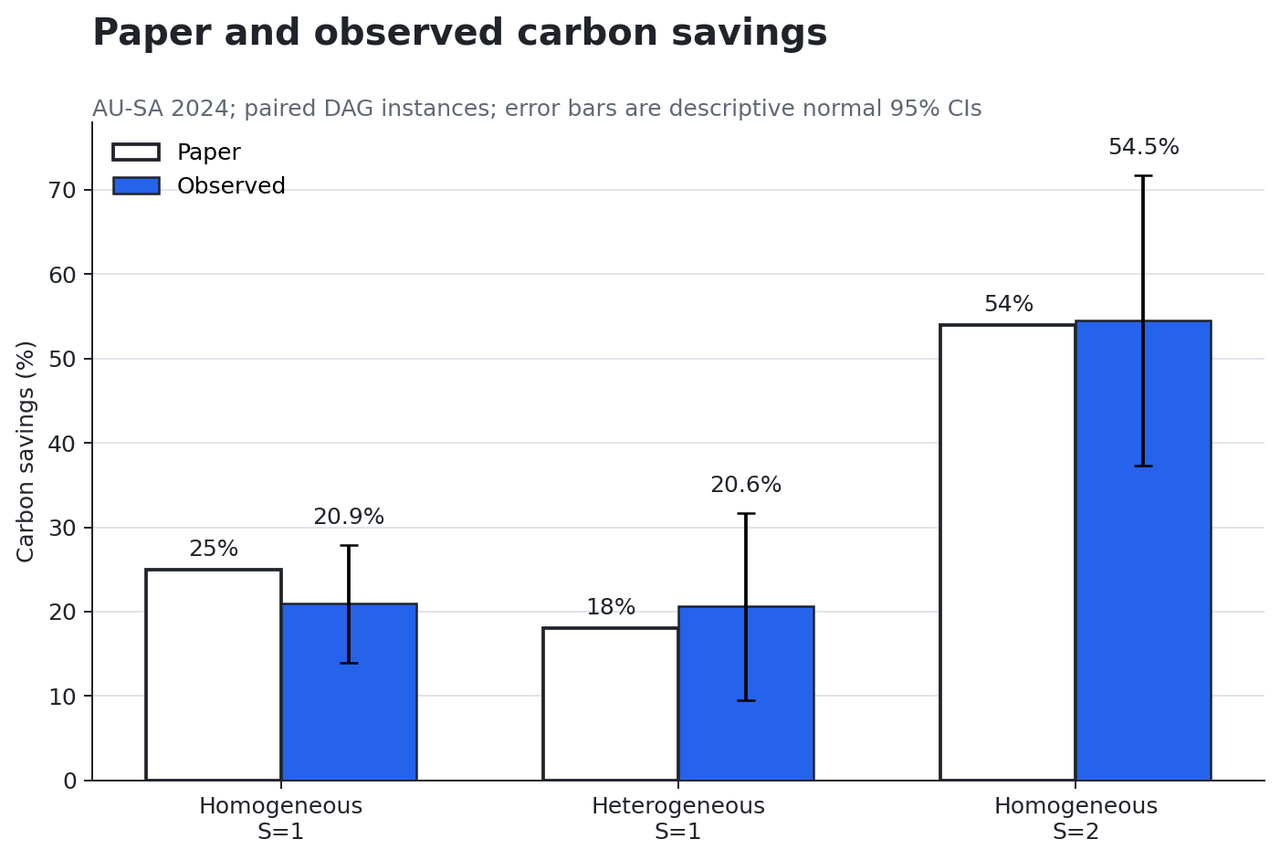
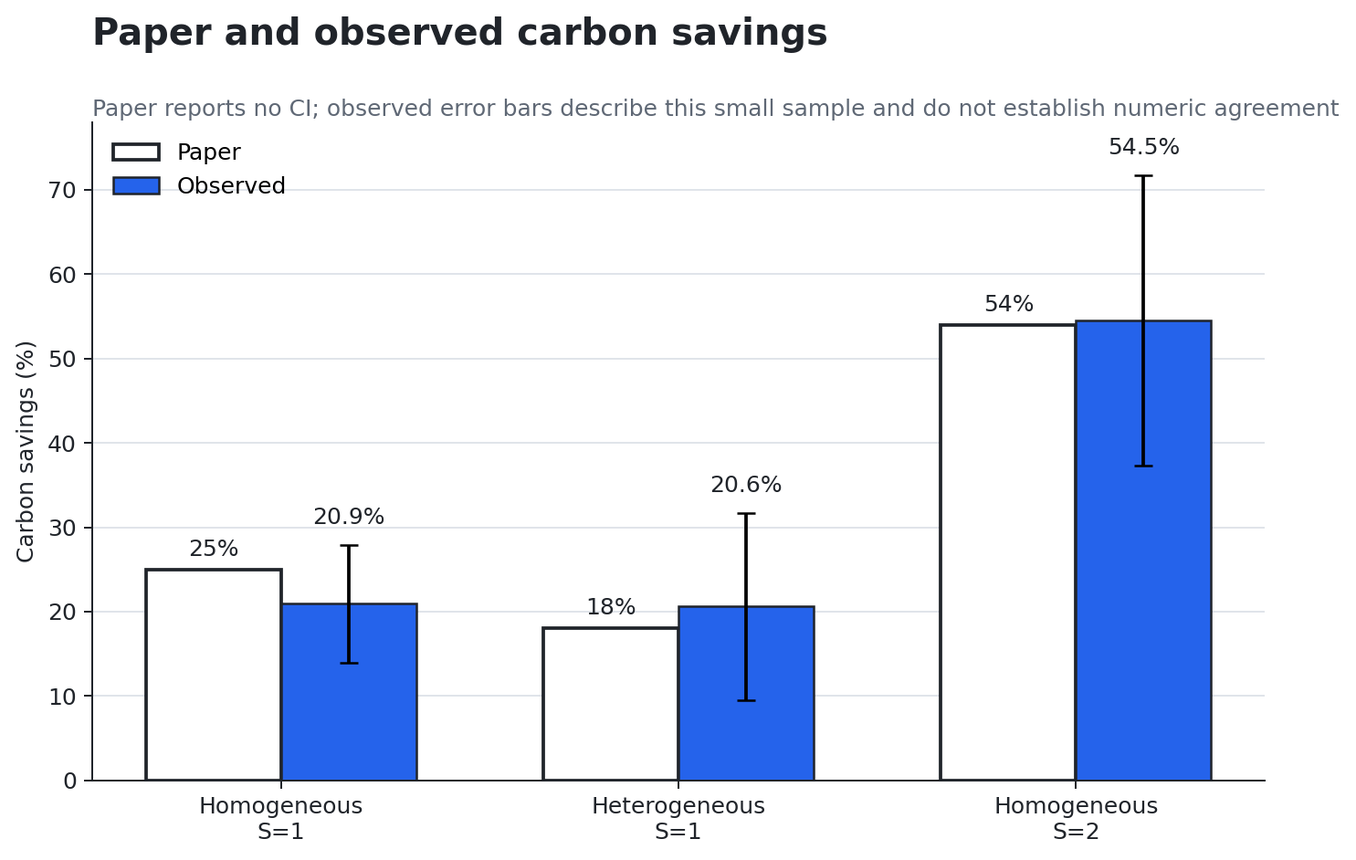
Apply unified reproduction grading rubric

diff --git a/notebooks/dag_carbon_reproduction.py b/notebooks/dag_carbon_reproduction.py
@@ -80,21 +80,21 @@ def _(mo):
             "Paper (%)": 25.0,
             "Observed (%)": 20.93,
             "n": 24,
-            "Assessment": "Aligned",
+            "Assessment": "Direction supported; numeric gap 16.3%",
         },
         {
             "Claim": "Heterogeneous S=1",
             "Paper (%)": 18.0,
             "Observed (%)": 20.60,
             "n": 16,
-            "Assessment": "Aligned",
+            "Assessment": "Direction supported; numeric gap 14.4%",
         },
         {
             "Claim": "Homogeneous S=2",
             "Paper (%)": 54.0,
             "Observed (%)": 54.52,
             "n": 8,
-            "Assessment": "Aligned under proportional timeouts",
+            "Assessment": "Supported; numeric gap 1.0%",
         },
     ]
     mo.ui.table(summary, selection=None, label="Paper and observed results")
@@ -210,10 +210,13 @@ def _(mo):
     mo.md(r"""
     ## What this evidence does—and does not—establish
 
-    **Supported here:** carbon-aware reordering can cut operational emissions
-    without extending the optimal makespan; proportional search time recovers
-    the reported $S=2$ endpoint; higher utilization is descriptively
-    associated with lower savings.
+    **Overall grade: C — partial reproduction success (medium confidence).**
+    Carbon-aware reordering reduced operational emissions without extending
+    the optimal makespan, and proportional search time recovered the reported
+    homogeneous $S=2$ endpoint. However, the two $S=1$ means differ from the
+    paper by 16.3% and 14.4%, beyond the 10% reference used when the paper gives
+    no uncertainty interval. The heterogeneous $S=2$ endpoint and several core
+    ablations were not supported or not attempted.
 
     **Still open:** the paper's energy-vs-carbon objective comparison, server
     count and task count sweeps, regional carbon traces, and a full 1,000-case

diff --git a/reports/dag-carbon-reproduction/build_report_assets.py b/reports/dag-carbon-reproduction/build_report_assets.py
@@ -135,7 +135,7 @@ def main() -> None:
     ax.set_xticks(x, labels)
     ax.set_ylim(0, 78)
     chart_title(ax, "Paper and observed carbon savings",
-                "AU-SA 2024; paired DAG instances; error bars are descriptive normal 95% CIs")
+                "Paper reports no CI; observed error bars describe this small sample and do not establish numeric agreement")
     style(ax)
     ax.legend(frameon=False, loc="upper left")
     save(fig, "headline_result.png")

diff --git a/reports/dag-carbon-reproduction/report.md b/reports/dag-carbon-reproduction/report.md
@@ -1,108 +1,100 @@
-# Reproducing Carbon-Aware Scheduling for DAG Workloads
+# DAG 工作负载碳感知调度：统一标准复现审计
 
-![Paper and observed carbon savings](images/headline_result.png)
+![论文值与本次实测值](images/headline_result.png)
 
-## The central question and answer
+**最终等级：C（部分复现成功）｜结论可信度：中。** 本次代码确实在约定的 SSH 机器上完成了实例级求解，并支持“碳感知调度能在不延长最优 makespan 时降低碳排放”这一方向性结论；但两个 $S=1$ 核心均值与论文的相对差异都超过 10%，异构 $S=2$ 结果相差 51.1%，且能耗权衡、服务器数、任务数和地区消融均未复现。因此不能判为 A 或 B。
 
-Can a scheduler reduce a dependency-constrained batch workload's operational carbon emissions without delaying its completion? In our downscaled reproduction of Bostandoost et al. ([arXiv:2512.07799](https://www.alphaxiv.org/abs/2512.07799)), the answer was yes.
+## 1. 本次实际复现了什么？
 
-At the paper's no-slack setting, $S=1$, carbon-aware schedules reduced emissions by **20.93% on homogeneous servers** versus the paper's 25%, and by **20.60% on heterogeneous servers** versus 18%. With proportional solver budgets and $S=2$, homogeneous savings reached **54.52%**, almost exactly the paper's 54%. These are aligned results under a smaller sample and shorter search budget, not a full-scale reproduction.
+我们重新实现了论文的两层 OR-Tools CP-SAT 优化：先最小化 makespan 得到 $C_{OPT}$，再约束 `makespan <= ceil(S × C_OPT)` 并最小化逐时段碳排放。正式运行使用作者仓库固定提交 [`cc312ef`](https://github.com/rbostandoust/GreenSys26-DAG/commit/cc312ef7d238d56d7114053dcdd04685b8a6a4d7) 中的 AU-SA 2024 Electricity Maps 数据和四操作 DAG 池。
 
-The most important qualification is computational: simply enlarging the feasible scheduling window without giving CP-SAT more search time produced poor or missing solutions. The paper's 1×/3×/5× timeout policy is consequential to the headline stretch result.
+实际完成的实验为：
 
-## Claim-by-claim assessment
+- 同构服务器、$S=1$：24 个实例。
+- 同构与异构服务器、$S=1,1.5,2$：各 16 个实例，所有碳优化求解统一限时 10 秒。
+- 同构服务器、$S=1,1.5,2$：8 个实例，碳优化限时按 10/30/50 秒递增。
 
-| Empirical claim | Paper result | Observed result | Assessment | Formal compute |
-|---|---:|---:|---|---|
-| Carbon savings with no makespan loss, homogeneous $S=1$ | 25.0% | 20.93%, $n=24$, descriptive 95% CI ±6.98 pp | **Aligned**; 4.07 pp lower, with the paper value inside the descriptive interval | 4m27s |
-| Carbon savings with no makespan loss, heterogeneous $S=1$ | 18.0% | 20.60%, $n=16$, descriptive 95% CI ±11.10 pp | **Aligned**; 2.60 pp higher | 16m41s sweep, which also tested stretch |
-| Homogeneous savings at $S=2$ | 54.0% | 54.52%, $n=8$, descriptive 95% CI ±17.24 pp | **Aligned under proportional timeouts**; 0.52 pp higher | 12m26s |
-| Doubling makespan flexibility nearly doubles homogeneous savings | 25% → 54% (2.16×) | 31.16% → 54.52% (1.75×) on the same $n=8$ subset | **Partially aligned**; direction and endpoint align, relative gain is smaller | 12m26s |
-| Default homogeneous utilization | 47.15% | 47.45%, $n=24$ | **Aligned**; 0.30 pp higher | Included in 4m27s baseline |
-| Heterogeneous carbon–energy trade-off (Fig. 7) | Up to 7% energy gap; at $S=2$, ~50% vs ~30% carbon savings and ~3% vs ~10% energy savings | Not attempted | **Not attempted** | — |
-| More servers yield up to 30× higher savings (Table 1a) | 1.13% → 33.98% for $M=2→10$ | Not attempted | **Not attempted** | — |
-| More tasks reduce savings by up to 35% (Table 1b) | 30.43% → 19.69% for $k=3→5$ | Not attempted | **Not attempted** | — |
-| Carbon-trace region changes achievable savings (Fig. 6) | Qualitative regional differences | Not attempted | **Not attempted** | — |
+三次成功运行共用时 33 分 34 秒。所有报告数字都可从本次运行日志中的 `INSTANCE_RESULT`、`SUMMARY` 和 `FINAL_RESULT` 逐项追溯；CSV 是从这些日志重新解析生成的，并非复制论文或 README 数字。所有 makespan 基线均由求解器标记为 `OPTIMAL`；碳优化结果大多只达到 `FEASIBLE`，因此是限时条件下找到的解，不是已证明的碳最优上界。
 
-The three successful evidence runs used **33m34s total wall-clock time** on the user-provided Vast.ai SSH machine (`paper2607-rtx3090`). The workload was CPU-bound constraint programming; the RTX 3090 was not used for acceleration. A monetary cost cannot be recovered from the run evidence. One 9-minute partial sweep crashed after completing its homogeneous half; it is retained only because it led to the heterogeneous-horizon repair.
+## 2. 哪些内容没有复现？
 
-## The implementation follows the paper's two-level optimization
+- 图 7 的碳优化与能耗优化对比，以及“碳最优方案最多多用 7% 能源”。
+- 表 1a 的服务器数量消融及“最多提高 30 倍碳节省”。
+- 表 1b 的每作业任务数消融及“最多降低 35% 碳节省”。
+- 图 6 的 CAL、CA-ON、TEX 与 AU-SA 地区对比。
+- 每个条件 1,000 个实例、论文完整的 60/180/300 秒求解预算。
+- 多随机种子、论文未披露的确切随机种子、硬件、线程数、OR-Tools 版本和日期抽样编排。
 
-The implementation uses the authors' released AU-SA 2024 Electricity Maps trace and four-operation DAG pool, pinned to upstream commit [`cc312ef`](https://github.com/rbostandoust/GreenSys26-DAG/commit/cc312ef7d238d56d7114053dcdd04685b8a6a4d7). Each instance contains 10 jobs, four operations per job, five servers, arrivals within 24 hours, and 15-minute epochs.
+## 3–4. 每个核心结论是否得到支持，数值相差多少？
 
-The consequential path in [`reproduce.py`](../../reproduce.py) is:
+论文没有报告可用于均值比较的方差或置信区间。因此，按统一标准使用 **相对差异不超过 10%** 作为临时数值接近参考。本次小样本的置信区间只描述本次结果波动，不用于替代论文缺失的误差范围。
 
-1. Sample jobs, DAG parents, arrivals, and a start date deterministically.
-2. Build one optional interval per task–machine alternative.
-3. Enforce exactly-one machine assignment, DAG precedence, arrivals, and per-machine `NoOverlap`.
-4. Minimize makespan and record the optimal $C_{\mathrm{OPT}}$.
-5. Rebuild the same instance with `makespan <= ceil(S × C_OPT)` and minimize time-indexed carbon cost.
-6. Compare each carbon-aware result with its paired makespan-only schedule.
+| 核心结论 | 论文结果 | 本次实测 | 方向 | 相对差异 | 判定 |
+|---|---:|---:|---|---:|---|
+| 同构 $S=1$：不增加最优 makespan 仍可降低碳排 | 25.0% | 20.9341%，$n=24$ | 一致：节省为正 | **16.26%** | **部分支持**：方向一致，数值不满足 10% 参考 |
+| 异构 $S=1$：不增加最优 makespan 仍可降低碳排 | 18.0% | 20.5996%，$n=16$ | 一致：节省为正 | **14.44%** | **部分支持**：方向一致，数值不满足 10% 参考 |
+| $S=1$ 时同构节省高于异构 | 25% > 18%，差 7 pp | 同一 16 实例集合为 23.1309% > 20.5996%，差 2.5313 pp | 一致 | 差值幅度相差 **63.84%** | **部分支持**：排序一致，差距明显偏小 |
+| 同构 $S=2$ 平均节省约 54% | 54.0% | 54.5157%，$n=8$，10/30/50 秒 | 一致 | **0.96%** | **支持**：端点数值接近 |
+| 放宽 makespan 会提高同构碳节省 | 25% → 54% | 同一 8 实例集合为 31.1637% → 47.8975% → 54.5157% | 一致：均值单调上升 | — | **支持方向** |
+| 将 $S$ 从 1 提到 2 会使同构节省“接近翻倍” | 2.16× | 1.749× | 一致：增幅为正 | **19.01%** | **部分支持**：趋势一致，倍率不接近 |
+| 异构 $S=2$ 平均节省约 52% | 52.0% | 25.4405%，$n=16$，统一 10 秒 | 仅端点高于 $S=1$；$S=1.5→2$ 反向下降 | **51.08%** | **本设置下不支持／证据不足**：预算与论文不一致 |
+| 异构利用率高于同构，从而限制迁移空间 | 55.02% > 47.15% | 47.3398% ≈ 47.2822%（同一 16 实例） | 不一致 | 异构利用率相差 **13.96%** | **本设置下不支持**；提示模型或利用率口径仍有差异 |
+| 默认同构利用率约 47.15% | 47.15% | 47.4501%，$n=24$ | 一致 | **0.64%** | **支持** |
+| 碳—能耗权衡、服务器数、任务数、地区效应 | 论文图 6–7、表 1 | 未运行 | 未判断 | — | **未复现** |
 
-The carbon objective uses a precomputed start-time lookup rather than the release's per-epoch active Boolean variables:
+“统一 10 秒”同构扫参只有 11/16 个 $S=2$ 求解返回可行结果，均值从 23.13% 降到 7.54%，不能支持论文趋势。把预算改为与论文相同的 1×/3×/5×比例后，8 个实例全部返回可行解并恢复单调趋势。这说明求解预算是实验条件的一部分；后者只能支持同构趋势，不能补足异构 $S=2$ 或其他未运行结论。
 
-```python
-model.add_element(safe_start, costs, raw_cost)
-model.add(active_cost == raw_cost).only_enforce_if(present)
-model.add(makespan <= makespan_limit)
-model.minimize(sum(task_costs))
-```
+![不同求解预算下的伸缩趋势](images/timeout_sensitivity.png)
 
-This is an equivalent discrete objective but produces a smaller CP-SAT model. The heterogeneous powers $[0.25, 0.5, 1, 1.5, 2]$ kW are a constant rescaling of the release's normalized $[1,2,4,6,8]$, so assignments and percentage savings are invariant to that factor.
+## 5. 差异可能来自哪里？
 
-## Savings exist at the same optimal makespan, but vary widely
+| 条件 | 论文 | 本次复现 | 可能影响 |
+|---|---|---|---|
+| 数据 | AU-SA 2024；作者 DAG 生成数据 | 相同来源并固定上游提交 | 这一部分基本一致 |
+| 每实例规模 | $n=10$ 作业、$k=4$ 任务、$M=5$ 服务器 | 相同 | 基本一致 |
+| 样本数 | 每条件 1,000 | 24、16 或 8 | 均值方差很大，容易受少数日期和 DAG 影响 |
+| 随机性 | 随机 trace 起点；种子数与种子未披露 | 一个生成种子 42；日期另用确定性派生种子 | 样本集合不同，不能视为同一统计重复 |
+| 碳求解时限 | $S=1/1.5/2$ 分别 60/180/300 秒 | 10 秒统一扫参；聚焦实验为 10/30/50 秒 | 大搜索空间中解质量和可行解覆盖率会下降 |
+| 硬件/线程 | 论文未披露 | Vast.ai SSH 主机；OR-Tools 8 个 search workers；GPU 未使用 | 多线程 CP-SAT 非完全确定；CPU 性能影响限时解质量 |
+| 软件版本 | 论文仅说明 Google OR-Tools，未给版本 | OR-Tools 9.14.6206 | 求解启发式和限时结果可能变化 |
+| 碳目标实现 | 作者按 epoch 活跃变量建模 | 等价的开始时间成本查表 | 理论目标相同，但模型规模与搜索路径不同 |
+| 最优性 | makespan 最优；碳求解有时限 | makespan 均为 `OPTIMAL`；碳解通常为 `FEASIBLE` | 碳节省是当前可行解，不一定是该实例最优值 |
+| 异构利用率 | 55.02% | 47.34% | 明显不一致，可能来自利用率定义、抽样或实现细节；会削弱异构结论可比性 |
 
-![Per-instance savings distributions](images/instance_distributions.png)
+![各实例结果分布](images/instance_distributions.png)
 
-All makespan-only baselines in the reported runs were solver-certified `OPTIMAL`. Carbon-aware solves were accepted when CP-SAT returned a feasible schedule inside the required makespan bound. At $S=1$, aware and baseline schedules therefore have the same optimal makespan; on homogeneous servers they also consume identical energy, so savings arise solely by reordering work into lower-carbon epochs.
+本次同构 $S=1$ 标准差为 17.45 个百分点，实例结果从 2.73% 到 66.82%。如此宽的分布意味着 8–24 个实例不足以稳定估计论文的 1,000 实例均值。
 
-The distribution is broad. The homogeneous $S=1$ standard deviation was 17.45 percentage points, and individual savings ranged from 2.73% to 66.82%. The spread explains why the 24-instance mean (20.93%) should not be treated as a precise estimate of the paper's 1,000-instance mean.
+## 6–8. 统一等级、最终结论与可信度
 
-## Solver time is part of the stretch-factor result
+- **最终等级：C（部分复现成功）。**
+- **最终结论：部分成功。** 代码与真实实验均运行成功；同构 $S=2$ 端点、放宽 makespan 的同构方向、默认同构利用率得到支持；两个 $S=1$ 核心碳节省只支持方向、不满足 10% 数值参考；异构 $S=2$ 和异构利用率机制未得到支持；多个核心消融未尝试。
+- **结论可信度：中。** “实际运行过”和“方向性节省存在”的证据可信度较高，但总体等级受小样本、单种子、短求解时限、异构利用率不匹配和大量未运行实验限制。
 
-![Timeout sensitivity](images/timeout_sensitivity.png)
+![利用率与节省的描述性关系](images/utilization_vs_savings.png)
 
-With one 10-second cap at every stretch, homogeneous mean savings fell from 23.13% at $S=1$ to 7.54% at $S=2$, and only 11 of 16 $S=2$ searches returned a feasible schedule. This run did not show the paper's reported stretch effect under equal time limits.
+上图的 $r=-0.46$ 仅是本次 24 个同构实例中的描述性相关，论文没有报告同一相关系数，因此它不能作为论文数值结论的复现证据。
 
-That divergence is diagnostic rather than contradictory: a larger horizon creates a larger search space. On a focused eight-instance child using 10/30/50 seconds for $S=1/1.5/2$—the same 1×/3×/5× policy as the paper—mean savings increased monotonically from 31.16% to 47.90% to 54.52%. Every solve returned a feasible schedule. The paper itself notes that large-$S$ heterogeneous runs can yield negative savings when the timeout prevents a good solution.
+## 9. 怎样提高复现等级？
 
-## Utilization supports the proposed mechanism
+要从 C 提升到 B，至少需要：
 
-![Utilization versus savings](images/utilization_vs_savings.png)
+1. 在相同实现上将四个主要点扩大到足够样本，并使用论文的 60/180/300 秒时限；优先完成同构与异构的 $S=1,1.5,2$ 全矩阵。
+2. 先查清异构利用率 47.34% 与论文 55.02% 的差异，包括作者利用率公式、机器选择集合、持续时间取整和随机实例编排；在此之前不应宣称异构设置等价。
+3. 增加多个预先声明的随机种子，报告均值、标准差和置信区间；如果作者能提供种子和实例清单，应直接使用。
+4. 完成碳目标与能耗目标的公平对比，并复现服务器数、任务数和地区三组关键消融。
 
-At homogeneous $S=1$, baseline utilization averaged 47.45%, closely matching the paper's 47.15%. Across the 24 paired instances, utilization and carbon savings had a descriptive Pearson correlation of $r=-0.46$: busier schedules tended to leave fewer idle gaps in which tasks could be moved to cleaner epochs.
+要达到 A，还需要基本匹配论文每条件 1,000 实例、完整参数和求解预算，确认 OR-Tools 版本及线程/硬件条件，并让全部核心方向和主要数值在论文误差范围内；若论文仍不提供误差范围，则主要指标至少应满足预先约定的数值容差。
 
-This is mechanism-consistent evidence, not a causal estimate. Carbon-trace variability, DAG shape, job duration, and the arbitrary carbon footprint of the non-unique makespan-optimal baseline can all affect both the schedule and measured savings.
+## 实现与证据入口
 
-## What was downscaled or substituted
-
-| Dimension | Paper | This reproduction |
-|---|---|---|
-| Instances | 1,000 per reported condition | 24 for the main homogeneous $S=1$ result; 16 for the mixed server sweep; 8 for proportional-timeout stretch |
-| Carbon solver limits | 60/180/300s at $S=1/1.5/2$ | 10s main/equal-budget checks; 10/30/50s proportional check |
-| Trace starts | Described as random points in AU-SA 2024 | Seeded random day offsets in the first 334 days, preserving a 30-day look-ahead |
-| Model | OR-Tools CP-SAT with epoch-active variables | OR-Tools CP-SAT with equivalent start-time cost lookup |
-| Parallelism | Paper experiments distributed across machines | One SSH host; eight CP-SAT search workers per solve |
-| Optimality | Makespan optimum, time-limited carbon search | Same; all baselines optimal, carbon schedules generally feasible rather than proven optimal |
-
-The descriptive confidence intervals use $1.96s/\sqrt{n}$. They summarize observed variation but are not formal population intervals: samples share one seed, the date-selection scheme is finite, and CP-SAT uses multi-threaded search.
-
-## Reproduction and provenance
-
-The fixed command on every formal experiment branch was:
+正式运行命令均为：
 
 ```bash
 python3 -m venv .venv && .venv/bin/pip install --quiet -r requirements.txt && .venv/bin/python reproduce.py
 ```
 
-Reader-facing data are in [`data/`](data/) and the figure builder is [`build_report_assets.py`](build_report_assets.py). The formal lineage is:
-
-- [Headline AU-SA baseline](https://github.com/S-Discipline/30-quantifying-the-carbon-reduction-of-dag-workl/tree/orx/headline-au-sa-reproduction-formal-baseline): 24 homogeneous $S=1$ instances.
-- [Stretch and heterogeneity sweep](https://github.com/S-Discipline/30-quantifying-the-carbon-reduction-of-dag-workl/tree/orx/stretch-and-heterogeneity-sweep): 16 instances, two server modes, three stretches, plus the horizon repair.
-- [Proportional timeout stretch check](https://github.com/S-Discipline/30-quantifying-the-carbon-reduction-of-dag-workl/tree/orx/proportional-timeout-stretch-check): eight homogeneous instances with 10/30/50-second caps.
-
-## Assessment and what full scale still needs
-
-The main illustrative claim is **aligned**: carbon-aware DAG scheduling reduced emissions at the optimal makespan, and the observed $S=1$ means were close to the paper's 25%/18%. The $S=2$ homogeneous result is also **aligned when solver time scales with search complexity**, landing at 54.52% versus 54%. Equal short timeouts did not show that effect, which makes solver budget a central part of the result rather than infrastructure trivia.
-
-A full-scale reproduction would still need 1,000 instances per condition, the paper's full 60/180/300-second limits, confirmation of the authors' exact date orchestration and CP-SAT parameters, multiple seeds or deterministic single-worker sensitivity, all four regional traces, server/task-count sweeps, and the carbon-versus-energy objective comparison.
+- [同构 $S=1$ 基线分支](https://github.com/S-Discipline/30-quantifying-the-carbon-reduction-of-dag-workl/tree/orx/headline-au-sa-reproduction-formal-baseline)
+- [同构/异构统一预算扫参分支](https://github.com/S-Discipline/30-quantifying-the-carbon-reduction-of-dag-workl/tree/orx/stretch-and-heterogeneity-sweep)
+- [同构比例预算检查分支](https://github.com/S-Discipline/30-quantifying-the-carbon-reduction-of-dag-workl/tree/orx/proportional-timeout-stretch-check)
+- [`reproduce.py`](../../reproduce.py)、[实例级 CSV](data/)、[制图脚本](build_report_assets.py)

diff --git a/README.md b/README.md
@@ -2,7 +2,9 @@
 
 We tested the headline claims of **[Quantifying the Carbon Reduction of DAG Workloads: A Job Shop Scheduling Perspective](https://www.alphaxiv.org/abs/2512.07799)**. Using the authors' pinned AU-SA 2024 trace and DAG pool, an OR-Tools CP-SAT reimplementation found **20.93% carbon savings at the same optimal makespan** on homogeneous servers (paper: **25%**) and **20.60%** on heterogeneous servers (paper: **18%**). With paper-proportional solver limits and $S=2$, homogeneous savings were **54.52%** (paper: **54%**).
 
-**Assessment: aligned at downscaled scale.** The $S=1$ differences were −4.07 and +2.60 percentage points; the $S=2$ difference was +0.52 points. The main substitutions were 8–24 rather than 1,000 instances per condition, 10/30/50-second rather than 60/180/300-second CP-SAT limits, seeded random trace dates, and an equivalent start-time carbon lookup. Runs executed on the user-provided Vast.ai SSH host alias `paper2607-rtx3090`; constraint solving was CPU-bound.
+**统一判定：C（部分复现成功），可信度：中。** 实验数字来自本次实例级运行日志，而非论文或 README。方向上，同构/异构 $S=1$ 都显示正碳节省，同构 $S=2$ 的伸缩趋势也一致；数值上，同构和异构 $S=1$ 的相对差异分别为 **16.26%** 和 **14.44%**，超过论文无误差范围时采用的 10% 参考，只有同构 $S=2$ 的 **0.96%** 相对差异满足该参考。异构 $S=2$ 相差 **51.08%**，能耗、服务器数、任务数和地区消融未运行，因此不能称为完整或缩小规模复现成功。
+
+主要替代是每条件 8–24 而非 1,000 个实例、10/30/50 秒而非 60/180/300 秒 CP-SAT 时限、单个生成种子、确定性 trace 日期抽样和等价的开始时间碳成本查表。运行位于用户提供的 Vast.ai SSH 主机别名 `paper2607-rtx3090`；约束求解为 CPU 密集型。
 
 - [Read the illustrated technical report](reports/dag-carbon-reproduction/report.md)
 - [Explore the self-contained marimo tutorial](notebooks/dag_carbon_reproduction.py)
@@ -12,10 +14,10 @@ We tested the headline claims of **[Quantifying the Carbon Reduction of DAG Work
 
 | Branch / experiment | Purpose or change | Exact run command | Assessment / outcome | Compute |
 |---|---|---|---|---|
-| `main` | Public README, report, figures, data, notebook, and final implementation | Not run as an experiment (publication surface) | Presentation only | None |
-| [Headline AU-SA baseline](https://github.com/S-Discipline/30-quantifying-the-carbon-reduction-of-dag-workl/tree/orx/headline-au-sa-reproduction-formal-baseline) | 24 homogeneous instances at $S=1$ | `python3 -m venv .venv && .venv/bin/pip install --quiet -r requirements.txt && .venv/bin/python reproduce.py` | Aligned: 20.93% vs 25% | Vast.ai SSH; 4m27s |
-| [Stretch and heterogeneity sweep](https://github.com/S-Discipline/30-quantifying-the-carbon-reduction-of-dag-workl/tree/orx/stretch-and-heterogeneity-sweep) | 16 instances; homogeneous/heterogeneous; $S=1,1.5,2$; equal 10s cap | `python3 -m venv .venv && .venv/bin/pip install --quiet -r requirements.txt && .venv/bin/python reproduce.py` | $S=1$ aligned; equal-budget $S=2$ inconclusive. First attempt exposed and motivated the horizon repair; final run completed. | Vast.ai SSH; 16m41s successful run |
-| [Proportional timeout stretch check](https://github.com/S-Discipline/30-quantifying-the-carbon-reduction-of-dag-workl/tree/orx/proportional-timeout-stretch-check) | Eight homogeneous instances; 10/30/50s limits at $S=1/1.5/2$ | `python3 -m venv .venv && .venv/bin/pip install --quiet -r requirements.txt && .venv/bin/python reproduce.py` | Aligned: $S=2$ 54.52% vs 54% | Vast.ai SSH; 12m26s |
+| `main` | Reader-facing README, report, figures, data, notebook, and final implementation | Not run as an experiment (publication surface) | Presentation only | None |
+| [Headline AU-SA baseline](https://github.com/S-Discipline/30-quantifying-the-carbon-reduction-of-dag-workl/tree/orx/headline-au-sa-reproduction-formal-baseline) | 24 homogeneous instances at $S=1$ | `python3 -m venv .venv && .venv/bin/pip install --quiet -r requirements.txt && .venv/bin/python reproduce.py` | 部分支持：方向一致；20.93% vs 25%，相对差异 16.26% | Vast.ai SSH; 4m27s |
+| [Stretch and heterogeneity sweep](https://github.com/S-Discipline/30-quantifying-the-carbon-reduction-of-dag-workl/tree/orx/stretch-and-heterogeneity-sweep) | 16 instances; homogeneous/heterogeneous; $S=1,1.5,2$; equal 10s cap | `python3 -m venv .venv && .venv/bin/pip install --quiet -r requirements.txt && .venv/bin/python reproduce.py` | 异构 $S=1$ 部分支持；异构 $S=2$ 与利用率机制在本设置下不支持；统一预算伸缩结果证据不足 | Vast.ai SSH; 16m41s successful run |
+| [Proportional timeout stretch check](https://github.com/S-Discipline/30-quantifying-the-carbon-reduction-of-dag-workl/tree/orx/proportional-timeout-stretch-check) | Eight homogeneous instances; 10/30/50s limits at $S=1/1.5/2$ | `python3 -m venv .venv && .venv/bin/pip install --quiet -r requirements.txt && .venv/bin/python reproduce.py` | 同构 $S=2$ 端点支持：54.52% vs 54%；“近乎翻倍”仅部分支持 | Vast.ai SSH; 12m26s |
 
 The three successful evidence runs used 33m34s total wall-clock time. Monetary cost is unavailable from the captured run evidence.
 
